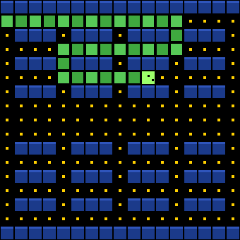
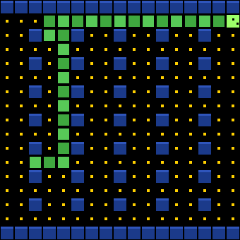
fix: al Nibbler no es podia girar a la primera corba
Tres coses, i totes tres meves.

La grossa: el cuc sortia amb el cap enganxat a la paret del final del tram.
A 160 mil·lèsimes per casella, o giraves a l'acte o t'estampaves, i això era
literalment la primera corba de la partida. Ara el cap surt al principi del
tram, amb mitja filera per davant, i el cuc no arrenca fins al cap de vuit
dècimes perquè puguis veure on ets.

La segona: girar contra una paret et matava. Si llliscaves amunt entre dos
pilars, el cuc canviava de direcció i s'estampava al moment. A la màquina —i
al nostre Comecocos— un gir barrat no fa res: segueixes recte i el gir es
guarda per a la primera obertura. Ara és així, i el gir guardat dura tres
caselles perquè no et surti d'improvís mig laberint més enllà.

La tercera, de fons: els laberints. Els havia fet amb blocs de tres caselles i
les files de pilars només s'obrien cada quatre columnes, o sigui que giraves
amunt, avançaves dues caselles i t'estampaves sense haver pogut fer res. I un
dels quatre tenia deu racons on era impossible sortir-ne: hi arribaves de cara
a una paret sense cap sortida pels costats.

Els quatre laberints estan refets: pilars d'una casella, files obertes i files
de pilars sempre alternades, i els pilars a les mateixes columnes a totes les
files. Així una columna oberta ho és de dalt a baix: o el gir et surt i tens
camí, o està barrat des del primer moment i llavors no et mata.

Provat des de CADA casella de cada laberint, entrant-hi en cada direcció i
[…]

diff --git a/nibbler.html b/nibbler.html
@@ -24,7 +24,7 @@ small{flex:none;max-width:94%;font-size:11px;color:#aaa;text-align:center;paddin
   <div id="hud"><button id="back" onclick="location.href='index.html'">← Tornar</button><span>PUNTS <b id="score">0</b></span><span>VIDES <b id="lives">3</b></span><span style="color:#ff0"><b id="best">—</b></span></div>
   <div id="screen"><canvas id="game" width="380" height="420"></canvas></div>
   <div id="controls">
-    <button id="u">▲</button><button id="l">◀</button><button id="d">▼</button><button id="r">▶</button>
+    <button id="l">◀</button><button id="u">▲</button><button id="d">▼</button><button id="r">▶</button>
   </div>
   <div id="msg"></div>
   <small><b style="color:#ddd">Menja't tots els punts del laberint sense mossegar-te la cua ni petar contra una paret; cada punt et fa més llarg.</b> llisca el dit cap on vulguis anar · fletxes o WASD · pausa: P</small>
@@ -68,78 +68,82 @@ const W=380,H=420;
 const CELA=20, COLS=19, FILES=17;
 const DALT=40;                       // franja de dalt: laberint i temps
 
-// Els laberints del Nibbler: passadissos amples amb pilars, no un embut com
-// el del Comecocos. Amb passadissos d'una sola casella, una serp llarga no
-// te on girar i el joc es torna impossible de seguida.
+// Els laberints: passadissos amples amb pilars d'UNA casella, i les columnes
+// senars sempre obertes. Aixi, des d'on siguis i anant on vagis, tens una
+// sortida a una casella de distancia.
+//
+// Els primers els vaig fer amb blocs de tres i les files de pilars nomes
+// s'obrien cada quatre columnes: llliscaves amunt i dues caselles despres
+// t'estampaves sense haver pogut fer res. Ho comprova el scripts/prova-cuc.mjs.
 const LABERINTS=[
 `###################
 #.................#
-#.###.###.###.###.#
+#..#..#..#..#..#..#
 #.................#
-#.###.###.###.###.#
+#..#..#..#..#..#..#
 #.................#
-#.###.###.###.###.#
+#..#..#..#..#..#..#
 #.................#
+#..#..#..#..#..#..#
 #.................#
+#..#..#..#..#..#..#
 #.................#
-#.###.###.###.###.#
+#..#..#..#..#..#..#
 #.................#
-#.###.###.###.###.#
-#.................#
-#.###.###.###.###.#
+#..#..#..#..#..#..#
 #.................#
 ###################`,
 `###################
 #.................#
 #.#.#.#.#.#.#.#.#.#
 #.................#
-#.#####.###.#####.#
-#.................#
-#.#.#.#.....#.#.#.#
-#.................#
-#.#.#.#.....#.#.#.#
-#.................#
-#.#####.###.#####.#
+#.#.#.#.#.#.#.#.#.#
 #.................#
 #.#.#.#.#.#.#.#.#.#
 #.................#
-#.###.#######.###.#
+#.#.#.#.#.#.#.#.#.#
 #.................#
-###################`,
-`###################
+#.#.#.#.#.#.#.#.#.#
 #.................#
-#.###.#.....#.###.#
-#.....#.###.#.....#
-#.###.#.#.#.#.###.#
-#.#.......#.......#
-#.#.#####.#.#####.#
-#.................#
-#.#####.#.#.#####.#
-#.......#.#.......#
-#.###.#####.###.#.#
-#.................#
-#.#.#####.#####.#.#
-#.................#
-#.###.#.###.#.###.#
-#.................#
-###################`,
-`###################
-#.................#
-#.###.#########.#.#
-#...#.........#...#
-#.#.#.#######.#.#.#
-#.#...#.....#...#.#
-#.#####.###.#####.#
-#.................#
-#.#####.###.#####.#
-#.#...#.....#...#.#
-#.#.#.#######.#.#.#
-#...#.........#...#
-#.###.#########.#.#
+#.#.#.#.#.#.#.#.#.#
 #.................#
 #.#.#.#.#.#.#.#.#.#
 #.................#
 ###################`,
+`###################
+#.................#
+#.##...##.##...##.#
+#.................#
+#.##...##.##...##.#
+#.................#
+#.##...##.##...##.#
+#.................#
+#.##...##.##...##.#
+#.................#
+#.##...##.##...##.#
+#.................#
+#.##...##.##...##.#
+#.................#
+#.##...##.##...##.#
+#.................#
+###################`,
+`###################
+#.................#
+#.#..##..##..#..#.#
+#.................#
+#.#..##..##..#..#.#
+#.................#
+#.#..##..##..#..#.#
+#.................#
+#.#..##..##..#..#.#
+#.................#
+#.#..##..##..#..#.#
+#.................#
+#.#..##..##..#..#.#
+#.................#
+#.#..##..##..#..#.#
+#.................#
+###################`
 ];
 
 // Un punt de cada tres et fa mes llarg. Amb un per punt, en mig laberint la
@@ -149,7 +153,7 @@ const CREIX_CADA=3;
 const LLARG_INICI=5;
 const VIDES=3;
 
-let mapa=[],serp=[],dir={x:1,y:0},seguentDir=null;
+let mapa=[],serp=[],dir={x:1,y:0},seguentDir=null,seguentVida=0;
 let punts=0,nivell=1,vides=VIDES,queden=0,menjats=0,creixPend=0;
 let state='play',paused=false,acum=0,bonus=0,espera=0,titolT=0;
 
@@ -170,7 +174,7 @@ function msg(t){const m=document.getElementById('msg');m.innerHTML=t;m.style.dis
 function hideMsg(){document.getElementById('msg').style.display='none'}
 
 // cada laberint va una mica mes de pressa
-function msPerPas(){return Math.max(85,160-(nivell-1)*9)}
+function msPerPas(){return Math.max(85,175-(nivell-1)*10)}
 
 function carregaLaberint(){
   const txt=LABERINTS[(nivell-1)%LABERINTS.length];
@@ -180,6 +184,7 @@ function carregaLaberint(){
   bonus=2000+queden*10;
   posaSerp();
   menjats=0;creixPend=0;
+  espera=800;                        // un moment per veure on ets abans d'arrencar
 }
 // On comenca: el tram recte mes llarg del mig del laberint, que aixi sempre
 // hi ha on arrencar i no surts mirant una paret.
@@ -193,7 +198,7 @@ function trobaInici(){
       if(!lliure&&ini>=0){
         const llarg=co-ini;
         const dist=Math.abs(f-(FILES-1)/2);
-        if(llarg>=LLARG_INICI+1&&(!millor||llarg>millor.llarg||
+        if(llarg>=LLARG_INICI+7&&(!millor||llarg>millor.llarg||
            (llarg===millor.llarg&&dist<millor.dist))){
           millor={f,ini,llarg,dist};
         }
@@ -205,7 +210,10 @@ function trobaInici(){
 }
 function posaSerp(){
   const t=trobaInici();
-  const f=t?t.f:1, cap=t?t.ini+t.llarg-1:COLS-2;
+  // El cap va al PRINCIPI del tram, no al final: sortint al final tenia la
+  // paret a la casella del costat i, a 175 mil·lèsimes per casella, o giraves
+  // a l'acte o t'estampaves. Així hi ha mitja filera per davant.
+  const f=t?t.f:1, cap=t?t.ini+LLARG_INICI-1:LLARG_INICI;
   serp=[];
   for(let i=0;i<LLARG_INICI;i++)serp.push({x:cap-i,y:f});
   dir={x:1,y:0};seguentDir=null;
@@ -224,15 +232,27 @@ function mou(nd){
   // no et pots girar del tot cap enrere: et menjaries a tu mateix
   const ref=seguentDir||dir;
   if(nd.x===-ref.x&&nd.y===-ref.y)return;
-  seguentDir=nd;
+  seguentDir=nd;seguentVida=3;
 }
 
+function esParet(px,py){
+  return !mapa[py]||!mapa[py][px]||mapa[py][px]==='#';
+}
 function passa(){
-  if(seguentDir){dir=seguentDir;seguentDir=null}
   const cap=serp[0];
+  // Un gir contra una paret no et mata: el cuc segueix recte i el gir es
+  // guarda per a la primera obertura que trobi, com a la maquina i com al
+  // Comecocos. Abans, llliscar amunt entre dos pilars era mort segura, i
+  // aixo passava a la primera corba de totes.
+  // El gir guardat dura tres caselles i prou: si no, un gir que has demanat
+  // i has deixat córrer et sortiria d'improvís mig laberint més enllà.
+  if(seguentDir){
+    if(!esParet(cap.x+seguentDir.x,cap.y+seguentDir.y)){dir=seguentDir;seguentDir=null}
+    else if(--seguentVida<=0)seguentDir=null;
+  }
   const nx=cap.x+dir.x, ny=cap.y+dir.y;
 
-  if(mapa[ny]===undefined||mapa[ny][nx]===undefined||mapa[ny][nx]==='#'){mor();return}
+  if(esParet(nx,ny)){mor();return}
   // la cua s'aparta al mateix moment que hi arribes, o sigui que trepitjar
   // l'ultima casella val (excepte si encara has de creixer)
   const fins=creixPend>0?serp.length:serp.length-1;
@@ -386,7 +406,7 @@ c.addEventListener('pointerdown',ev=>{ev.preventDefault();aInit();
 c.addEventListener('pointermove',ev=>{
   if(!toc)return;
   const dx=ev.clientX-toc.x, dy=ev.clientY-toc.y;
-  if(Math.abs(dx)<18&&Math.abs(dy)<18)return;
+  if(Math.abs(dx)<14&&Math.abs(dy)<14)return;
   mou(Math.abs(dx)>Math.abs(dy)?(dx>0?DRETA:ESQ):(dy>0?AVALL:AMUNT));
   toc={x:ev.clientX,y:ev.clientY};    // torna a comptar, per poder encadenar girs
 });

diff --git a/sw.js b/sw.js
@@ -1,4 +1,4 @@
-const CACHE = 'jocs-v59';
+const CACHE = 'jocs-v60';
 const FILES = [
   '/Jocs/',
   '/Jocs/index.html',

diff --git a/CLAUDE.md b/CLAUDE.md
@@ -75,19 +75,34 @@ màquina d'aquell joc és el **Nibbler (1982, Rock-Ola)**, no pas el *Blockade*
 menjar i la serp creixia sola. Si algun dia es fa el Blockade, va a part i és
 del 1976.
 
-Dues coses del Nibbler que no s'han de tocar a la lleugera:
+Tres coses del Nibbler que no s'han de tocar a la lleugera:
 
-- **Els passadissos són amples, amb pilars**, no un embut com el del Comecocos.
-  Amb passadissos d'una sola casella, una serp llarga no té on girar i el joc es
-  torna impossible al cap de quatre punts.
+- **Els pilars fan una casella i les columnes senars queden sempre obertes.**
+  Així, des d'on siguis i anant on vagis, tens una sortida a una casella de
+  distància. Els primers laberints els vaig fer amb blocs de tres i les files
+  de pilars només s'obrien cada quatre columnes: llliscaves amunt i dues
+  caselles després t'estampaves sense haver pogut fer res, i un d'ells tenia
+  deu racons on era impossible sortir-ne. Ho comprova el
+  `scripts/prova-cuc.mjs`, que tampoc no deixa passar passadissos de més de
+  dues caselles sense poder girar.
 - **Un punt de cada tres et fa més llarg** (`CREIX_CADA`). Amb un per punt, a
-  mig laberint la serp ja no cabia enlloc: hi ha entre 160 i 190 caselles
-  buides i el laberint s'ha de poder acabar. Provat amb un jugador automàtic
-  que evita ficar-se en racons: neteja dos laberints i arriba a fer 67 de llarg.
+  mig laberint la serp ja no cabia enlloc: hi ha unes 200 caselles buides i el
+  laberint s'ha de poder acabar. Provat amb un jugador automàtic que evita
+  ficar-se en racons: neteja un laberint i arriba a fer 62 de llarg.
+- **Girar contra una paret no mata.** El cuc segueix recte i el gir es guarda
+  per a la primera obertura, com a la màquina i com al Comecocos.
 
 On comença cada laberint no està escrit enlloc: es busca **el tram recte més
-llarg del mig** (`trobaInici`), i així mai no surts mirant una paret ni et
-quedes sense lloc per arrencar.
+llarg del mig** (`trobaInici`). El cap va al **principi** del tram i no al
+final: sortint al final tenia la paret a la casella del costat i, a 160
+mil·lèsimes per casella, o giraves a l'acte o t'estampaves. Ara hi ha mitja
+filera per davant, i el cuc no arrenca fins al cap de vuit dècimes.
+
+I el més important de tot: **un gir contra una paret no mata**. El cuc segueix
+recte i el gir es guarda per a la primera obertura que trobi, com a la màquina
+i com al Comecocos. Els passadissos entre files només s'obren a les columnes 1,
+5, 9, 13 i 17: si girar entre dos pilars matés, la primera corba de totes ja
+seria mort segura.
 
 ## L'Amunt: el salt mana sobre tota la resta
 
@@ -347,6 +362,8 @@ comproven el comportament.
 - `node scripts/prova-so.mjs` — que als jocs que fan soroll surti el botó del
   so, que apagant-lo el volum es posi de debò a zero i torni en tornar-hi, i
   que el marcador no vessi a 320 px.
+- `node scripts/prova-cuc.mjs` — que els laberints del Nibbler no tinguin
+  racons sense sortida ni passadissos llargs on no puguis girar.
 - `node scripts/prova-ajuda.mjs` — que tots els jocs tinguin la línia d'ajuda,
   que comenci dient l'objectiu i que es vegi sencera; i que la de l'Asteroid
   Belt marxi del camp quan comences a jugar.
